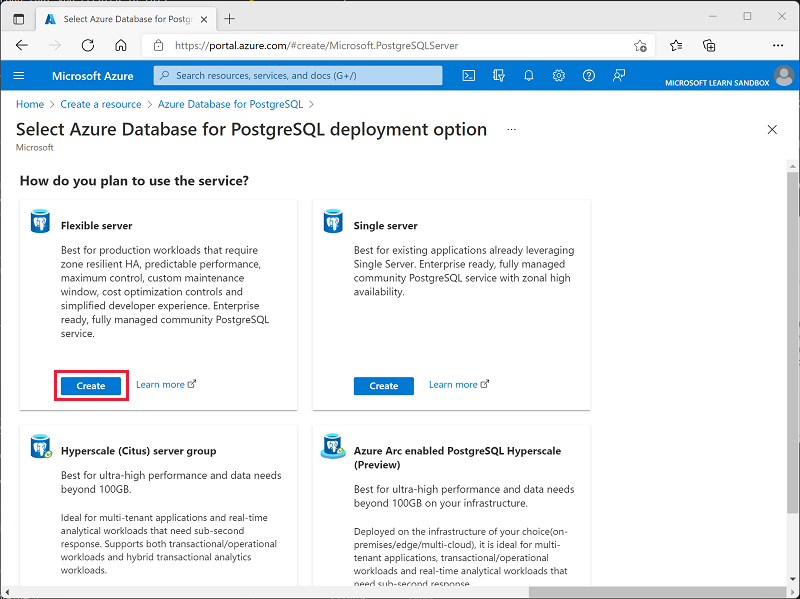
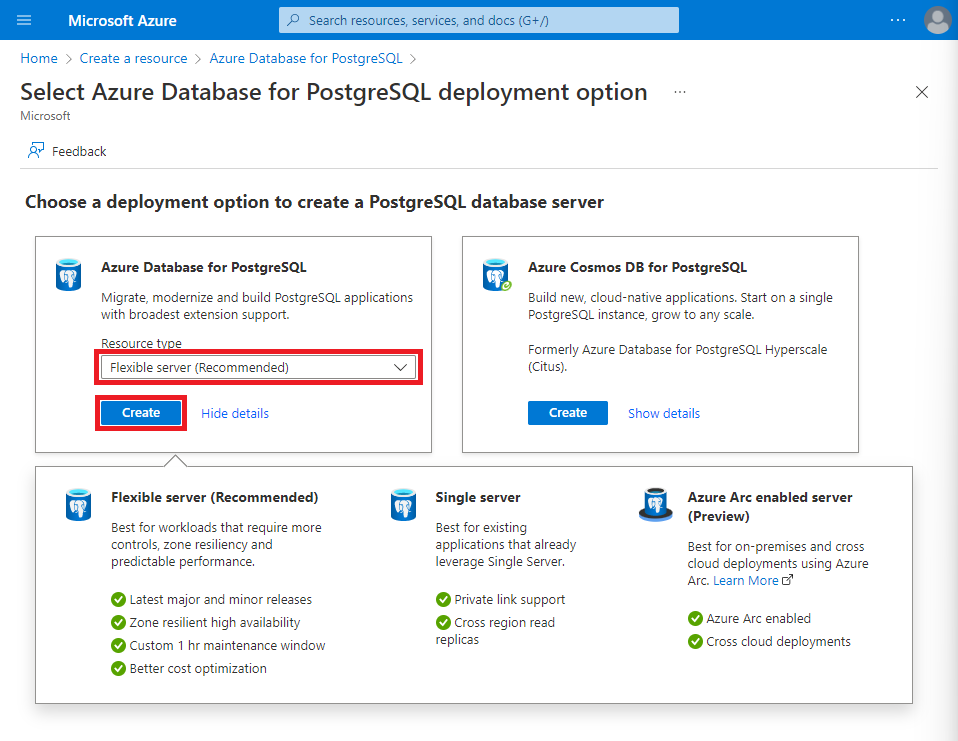
Updated steps for PostgreSql  (#16)
* Updated the postgresql-options.png image

* Updated the steps for selecting Flexible server

Changed region(s): [[0.0, 0.0, 1.0, 1.0], [0.9688, 0.2705, 1.0, 0.8715]]

diff --git a/Instructions/Labs/dp900-01a-postgresql-lab.md b/Instructions/Labs/dp900-01a-postgresql-lab.md
@@ -20,7 +20,7 @@ In this exercise, you'll provision an Azure Database for PostgreSQL resource.
 
 1. In the Azure portal, select **&#65291; Create a resource** from the upper left-hand corner and search for *Azure Database for PostgreSQL*. Then in the resulting **Azure Database for PostgreSQL** page, select **Create**.
 
-1. Review the Azure Database for PostgreSQL options that are available, and then in the **Flexible server** tile, select **Create**.
+1. Review the Azure Database for PostgreSQL options that are available, and then in the **Azure Database for PostgreSQL** tile, select **Flexible server (Recommended)**, then **Create**.
 
     ![Screenshot of Azure Database for PostgreSQL deployment options](images/postgresql-options.png)
 
